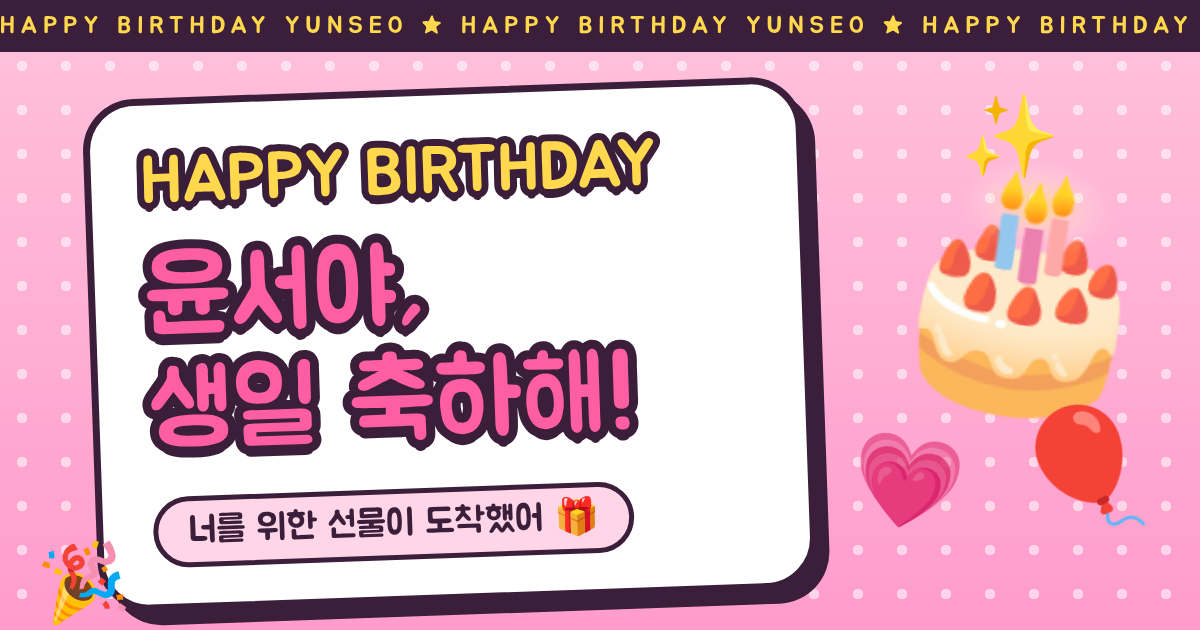
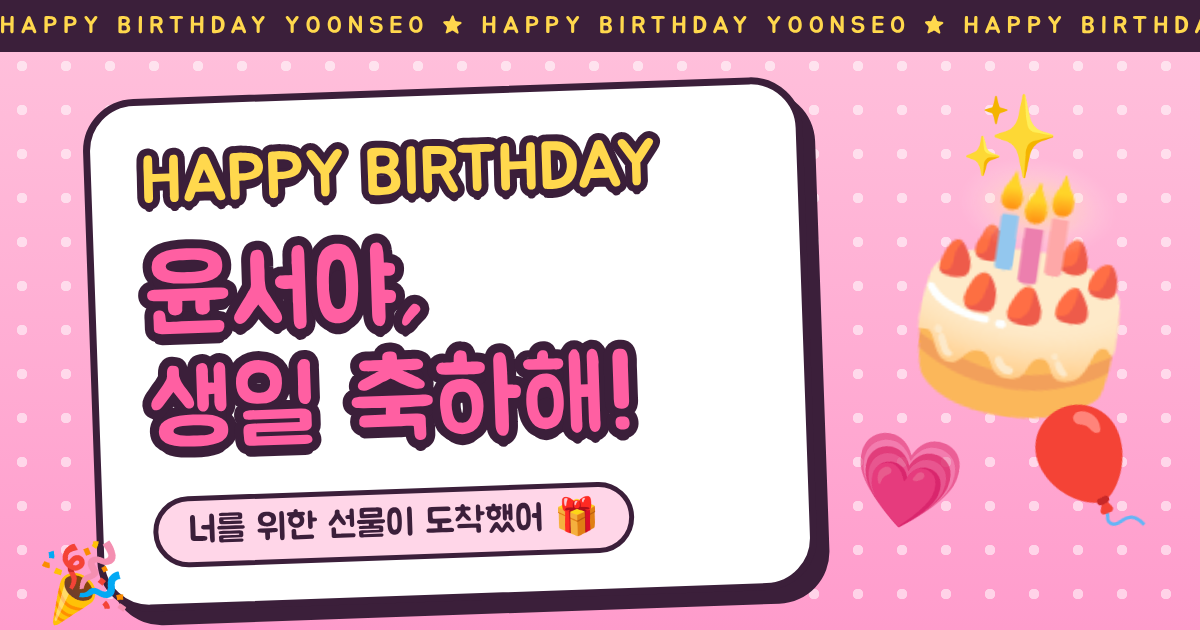
영어 이름 철자를 YOONSEO로 수정
- 상단 띠 문구(config.marquee)와 케이크 저장 이미지의 띠
- 카톡 미리보기 이미지(og.png) 다시 생성
- 케이크 저장 파일 이름을 yoonseo-birthday-cake.png로 변경

Claude-Session: https://claude.ai/code/session_01Fit7YhQUdpi3GWUXupDxWn

Changed region(s): [[0.2467, 0.0, 1.0, 0.0603]]

diff --git a/src/saveCard.js b/src/saveCard.js
@@ -129,7 +129,7 @@ export async function makeCardBlob(placed) {
 
 // 공유 시트(아이폰: "이미지 저장") 우선, 안 되면 다운로드
 export async function deliverCard(blob) {
-  const file = new File([blob], 'yunseo-birthday-cake.png', { type: 'image/png' })
+  const file = new File([blob], 'yoonseo-birthday-cake.png', { type: 'image/png' })
   if (navigator.canShare?.({ files: [file] })) {
     try {
       await navigator.share({ files: [file], title: `${config.name} 생일 케이크` })
@@ -141,7 +141,7 @@ export async function deliverCard(blob) {
   const url = URL.createObjectURL(blob)
   const a = document.createElement('a')
   a.href = url
-  a.download = 'yunseo-birthday-cake.png'
+  a.download = 'yoonseo-birthday-cake.png'
   document.body.appendChild(a)
   a.click()
   a.remove()

diff --git a/src/config.js b/src/config.js
@@ -2,7 +2,7 @@
 export const config = {
   name: '윤서',
   birthday: { year: 2026, month: 11, day: 12 }, // 이 날 0시에 잠금이 풀림
-  marquee: 'HAPPY BIRTHDAY YUNSEO',
+  marquee: 'HAPPY BIRTHDAY YOONSEO',
 
   // 로딩 화면 마스코트: public/ 폴더에 넣은 이미지 파일명. null이면 코드로 그린 기본 토끼
   mascotImage: 'mascot.png', // 핑크빛 흰 몸 버전을 쓰려면 'mascot-pink.png'
